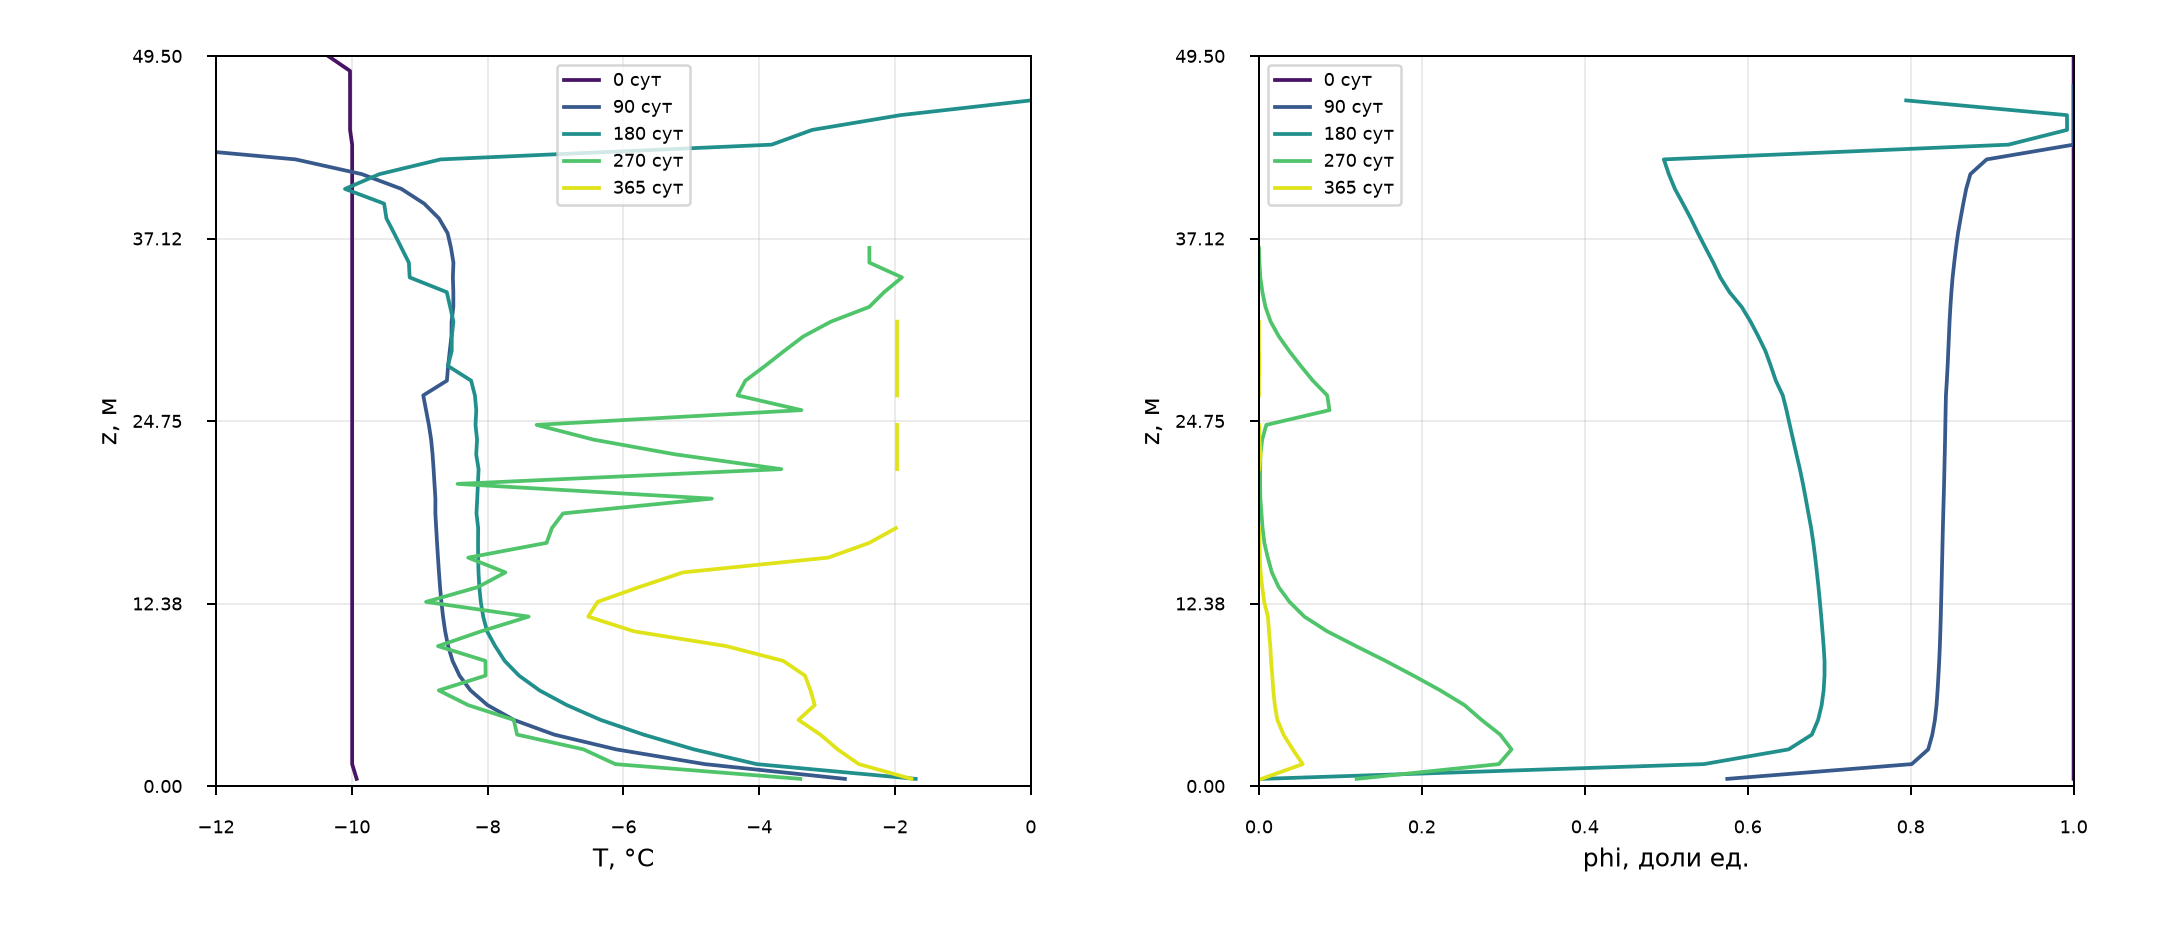
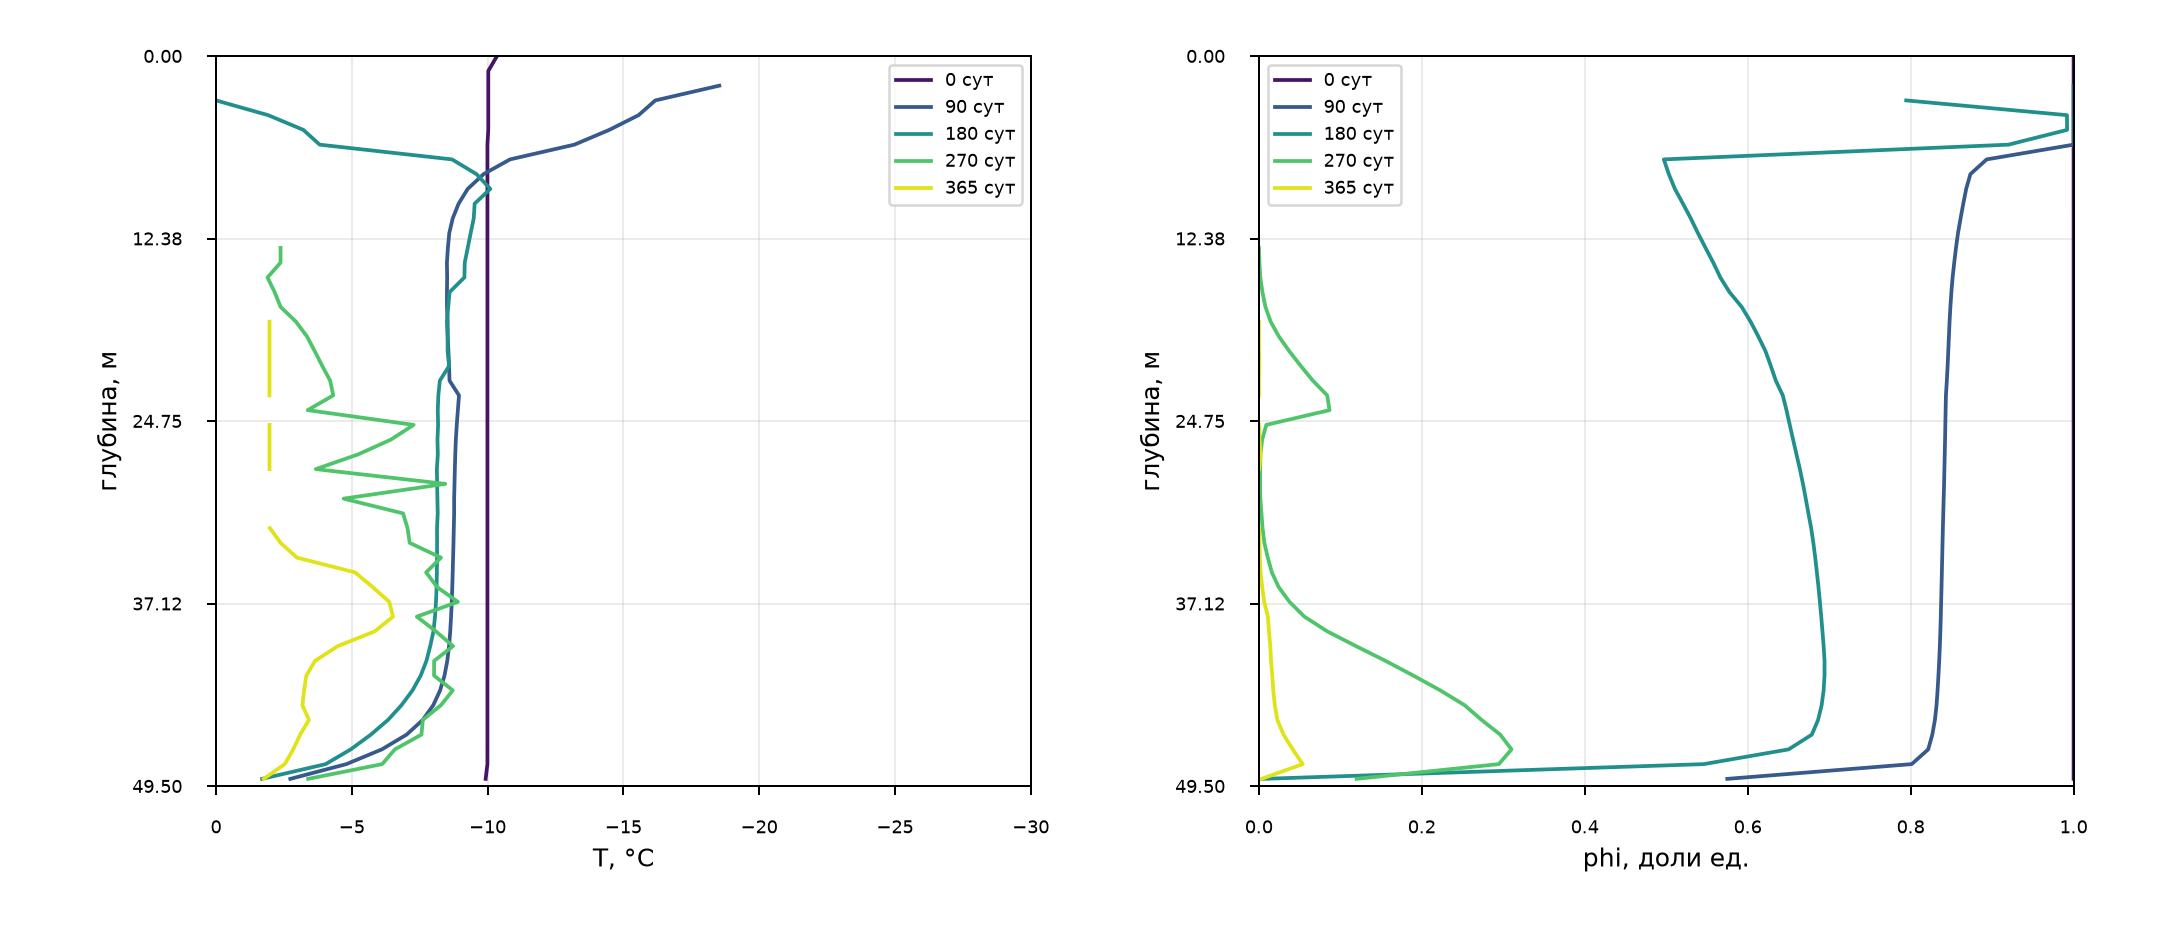
12.20: invert profile depth and expand temperature axis

diff --git a/python/analysis/stage12.20_figures.py b/python/analysis/stage12.20_figures.py
@@ -116,15 +116,16 @@ def profiles(tag,root,out):
         zmax=float(z[-1])
         tz=np.array([np.nanmean(T[k][sol[k]]) if sol[k].any() else np.nan for k in range(p.shape[0])])
         pz=np.where(p.sum((1,2))>0,p.mean((1,2)),np.nan)
+        depth=zmax-z
         lab=f"{int(round(t/86400))} сут"
-        ax[0].plot(tz,z,color=c,label=lab)
-        ax[1].plot(pz,z,color=c,label=lab)
-    ax[0].set(xlabel="T, °C",ylabel="z, м"); ax[1].set(xlabel="phi, доли ед.",ylabel="z, м")
+        ax[0].plot(tz,depth,color=c,label=lab)
+        ax[1].plot(pz,depth,color=c,label=lab)
+    ax[0].set(xlabel="T, °C",ylabel="глубина, м"); ax[1].set(xlabel="phi, доли ед.",ylabel="глубина, м")
     for a in ax:
-        a.set_ylim(0,zmax); a.set_yticks(np.linspace(0,zmax,5))
+        a.set_ylim(zmax,0); a.set_yticks(np.linspace(0,zmax,5))
         a.grid(alpha=.25); a.legend(fontsize=7)
         a.tick_params(axis="x",pad=10,labelsize=7); a.tick_params(axis="y",pad=10,labelsize=7)
-    ax[0].set_xlim(-12,0); ax[1].set_xlim(0,1)
+    ax[0].set_xlim(0,-30); ax[0].set_xticks([0,-5,-10,-15,-20,-25,-30]); ax[1].set_xlim(0,1)
     fig.subplots_adjust(left=.10,right=.96,bottom=.16,top=.94,wspace=.28)
     fig.savefig(out,dpi=180); check_png(out); plt.close(fig); print(out)
 

diff --git a/docs/wiki/stages/stage12/stage12.20_phi_conn_and_start_selection.md b/docs/wiki/stages/stage12/stage12.20_phi_conn_and_start_selection.md
@@ -84,7 +84,9 @@ with `T(z)` and `phi(z)` at five actual snapshot dates, `time_series.png`,
 last frame, fixed size/colorbars). The full-width mid-depth `T(x)` transect is
 omitted: with `kappa ~ 1.1e-6 m2/s` the one-year thermal skin is only ~6 m, so a
 100 m transect is visually empty in the interior; `T(z)`/`phi(z)` carry the
-useful profile information. `time_series.png` uses Russian labels and separate
+useful profile information. Profiles use oceanographic depth (0 m at the top,
+increasing downward) and the observed `T` range `0…−30 °C`; the old `−12 °C`
+limit was clipping cold ice. `time_series.png` uses Russian labels and separate
 red/blue axes for water `T` and `S` at draft. Common `map_2020_2024.png`, `mass_curves.png` and
 `summary.csv` contain only the six coastal 100³ runs. The two 50 m controls are
 kept out of those mixed figures and are summarised separately in
